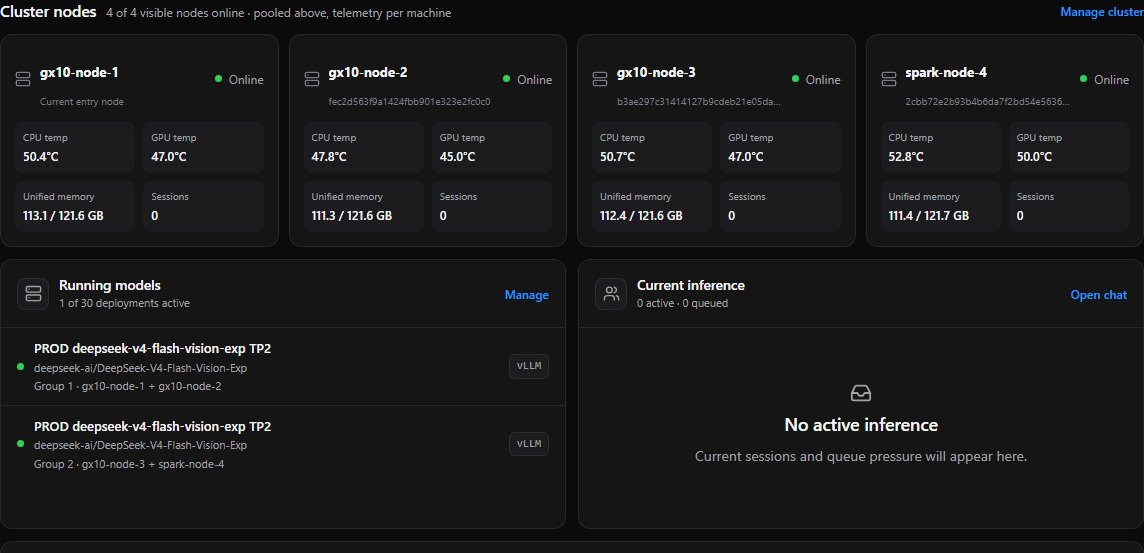
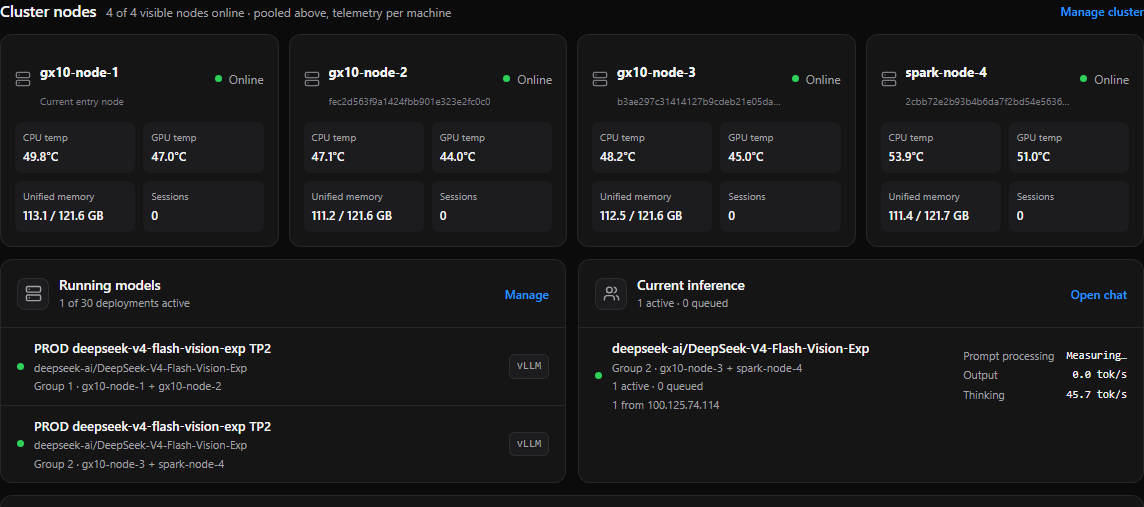
docs: address round-2 Codex review
- recapture the monitoring screenshot during a real active inference
  session (1 active request, thinking/output tok/s visible)
- caption now visibly qualifies the pull dialog's 'downloads once' copy:
  transfer-eligible targets fan out via Virtual NAS, partial caches resume
  from the Hub independently

diff --git a/README.md b/README.md
@@ -111,7 +111,7 @@ _Set one Hugging Face credential for gated and private models across the cluster
 
 ![Explore pull-weights dialog for deepseek-ai/DeepSeek-V4-Flash-0731 across four cluster nodes](docs/screenshots/readme/feature-explore-pull.png)
 
-_Pulling `deepseek-ai/DeepSeek-V4-Flash-0731` (155 GB weights) to all four nodes, with gx10-node-1 as the download seed. Real capture from the author's cluster._
+_Pulling `deepseek-ai/DeepSeek-V4-Flash-0731` (155 GB weights) to all four nodes, with gx10-node-1 as the download seed. Real capture from the author's cluster. The dialog's "downloads once" summary describes transfer-eligible targets; a node that already holds a partial cache resumes from Hugging Face independently._
 </details>
 
 ## Documentation
